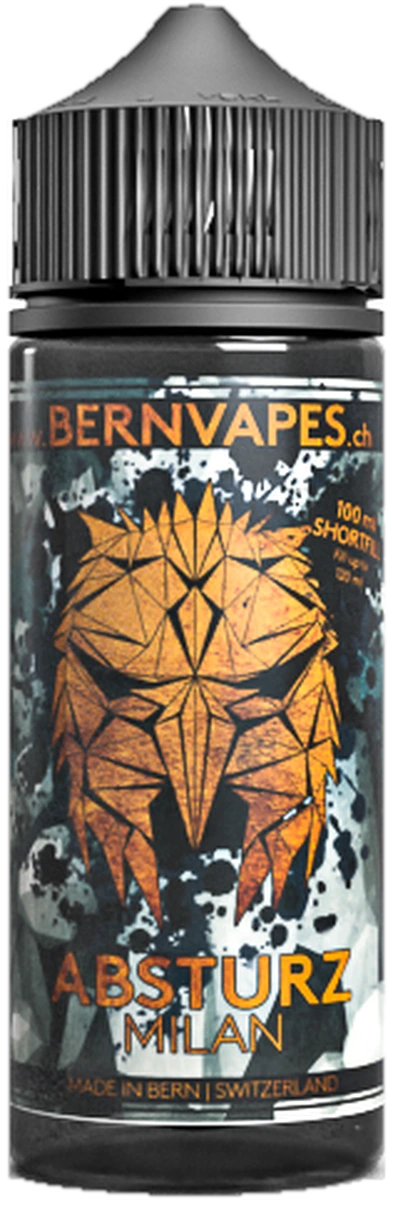
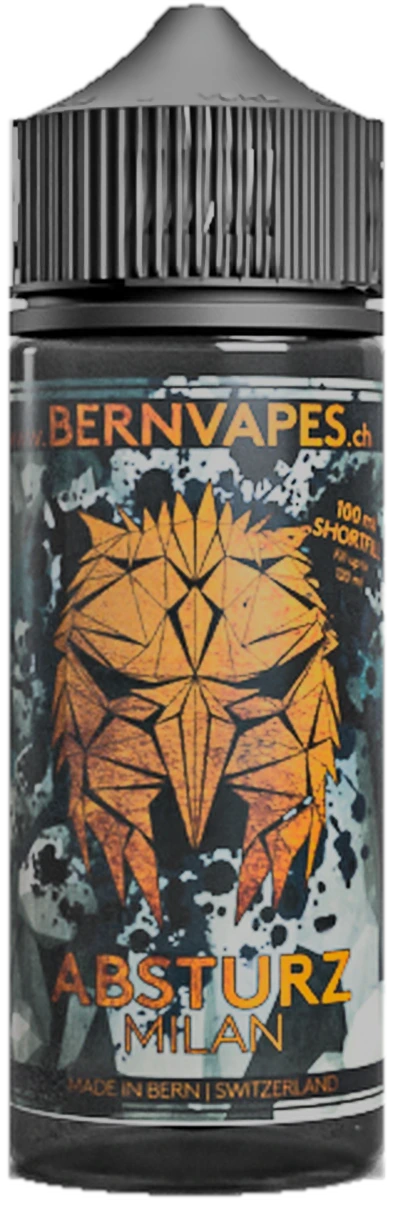
Runde 12: matte Flaschen + ruhige Kappen, Quartiere als Reihe mit Gras/Wolken/Wetterleuchten, Bergtiere Pistenplan (kleiner, Hover-Wachstum, Liftlinien), Hero-Flasche hinter dem Tier, weichere Saison-Blende

diff --git a/index.html b/index.html
@@ -73,6 +73,9 @@
     <canvas class="world" data-src="assets/web/worlds/wald.webp" data-key="wald" data-strength="1"></canvas>
     <canvas class="world winter" data-src="assets/web/worlds/wald_w.webp" data-key="wald_w" data-strength="1"></canvas>
     <canvas class="snow"></canvas>
+    <div class="qclouds" aria-hidden="true"><img src="assets/web/clouds/c0.webp" alt="" style="left:6%;top:9%;width:13%;--dur:70s;--amp:2.6vw;animation-delay:-30s"><img src="assets/web/clouds/c3.webp" alt="" style="right:8%;top:6%;width:12%;--dur:84s;--amp:3vw;animation-delay:-50s"><img src="assets/web/clouds/c2.webp" alt="" style="left:30%;top:4%;width:7%;--dur:60s;--amp:2vw;animation-delay:-12s"></div>
+    <div class="flash" aria-hidden="true"></div>
+    <canvas class="grass"></canvas>
     <div class="fx vignette"></div><div class="fx cool"></div>
     <div class="title side">
       <div class="kicker">Die Klassiker</div>
@@ -80,7 +83,7 @@
       <p>Sieben Sorten, benannt nach Berner Quartieren. Vier davon gibt es auch eisgekühlt — schalt auf Winter.</p>
     </div>
     <div class="beasts">
-      <figure class="beast grp bot" style="--i:0;left:12%;bottom:6%;--w:6.6%;--d:1.1;--delay:0s" data-season="s"><div class="duo"><div class="bottle3" style="--mask:url('assets/web/produkte/monbijou_marder_60ml.webp');--bar:0.231"><img class="base" src="assets/web/produkte/monbijou_marder_60ml.webp" alt=""><i class="shine"></i></div></div><div class="ings"><img src="assets/web/ingredients/schokolade_orange.webp" alt=""></div><div class="plaque"><div class="flavor">Monbijou Marder</div><div class="who">Zartbitter · Orange</div></div></figure><figure class="beast grp bot" style="--i:1;left:30%;bottom:6%;--w:6.6%;--d:1.1;--delay:-1.2s" data-season="s"><div class="duo"><div class="bottle3" style="--mask:url('assets/web/produkte/breitschplatz_hirsch_60ml.webp');--bar:0.231"><img class="base" src="assets/web/produkte/breitschplatz_hirsch_60ml.webp" alt=""><i class="shine"></i></div></div><div class="ings"><img src="assets/web/ingredients/apfel.webp" alt=""><img src="assets/web/ingredients/pistazie.webp" alt=""></div><div class="plaque"><div class="flavor">Breitsch Hirsch</div><div class="who">Apfel · Pistazie</div></div></figure><figure class="beast grp bot" style="--i:2;left:48%;bottom:6%;--w:6.6%;--d:1.1;--delay:-2.4s" data-season="s"><div class="duo"><div class="bottle3" style="--mask:url('assets/web/produkte/matte_eule_60ml.webp');--bar:0.231"><img class="base" src="assets/web/produkte/matte_eule_60ml.webp" alt=""><i class="shine"></i></div></div><div class="ings"><img src="assets/web/ingredients/ingwer.webp" alt=""><img src="assets/web/ingredients/mandarine.webp" alt=""></div><div class="plaque"><div class="flavor">Matte Eule</div><div class="who">Ingwer · Mandarine</div></div></figure><figure class="beast grp bot" style="--i:3;left:66%;bottom:6%;--w:6.6%;--d:1.1;--delay:-3.6s" data-season="s"><div class="duo"><div class="bottle3" style="--mask:url('assets/web/produkte/laengass_dachs_60ml.webp');--bar:0.231"><img class="base" src="assets/web/produkte/laengass_dachs_60ml.webp" alt=""><i class="shine"></i></div></div><div class="ings"><img src="assets/web/ingredients/saure_mango.webp" alt=""><img src="assets/web/ingredients/mango.webp" alt=""></div><div class="plaque"><div class="flavor">Länggass Dachs</div><div class="who">Saure Mango</div></div></figure><figure class="beast grp bot" style="--i:4;left:84%;bottom:6%;--w:6.6%;--d:1.1;--delay:-4.8s" data-season="s"><div class="duo"><div class="bottle3" style="--mask:url('assets/web/produkte/wyler_falke_60ml.webp');--bar:0.231"><img class="base" src="assets/web/produkte/wyler_falke_60ml.webp" alt=""><i class="shine"></i></div></div><div class="ings"><img src="assets/web/ingredients/jasmin.webp" alt=""><img src="assets/web/ingredients/gruentee.webp" alt=""></div><div class="plaque"><div class="flavor">Wyler Falke</div><div class="who">Jasmin-Tee</div></div></figure><figure class="beast grp bot quiet" style="--i:5;left:24%;bottom:34%;--w:4.2%;--d:.5;--delay:-6s" data-season="s"><div class="duo"><div class="bottle3" style="--mask:url('assets/web/produkte/schanzen_kater_60ml.webp');--bar:0.231"><img class="base" src="assets/web/produkte/schanzen_kater_60ml.webp" alt=""><i class="shine"></i></div></div><div class="ings"><img src="assets/web/ingredients/kaffee.webp" alt=""><img src="assets/web/ingredients/amaretto.webp" alt=""></div><div class="plaque"><div class="flavor">Schanzen Kater</div><div class="who">Kaffee · Amaretto</div></div></figure><figure class="beast grp bot quiet" style="--i:6;left:70%;bottom:35%;--w:4.2%;--d:.5;--delay:-7s" data-season="s"><div class="duo"><div class="bottle3" style="--mask:url('assets/web/produkte/bollwerk_koeter_60ml.webp');--bar:0.231"><img class="base" src="assets/web/produkte/bollwerk_koeter_60ml.webp" alt=""><i class="shine"></i></div></div><div class="ings"><img src="assets/web/ingredients/tabak.webp" alt=""><img src="assets/web/ingredients/feige.webp" alt=""></div><div class="plaque"><div class="flavor">Bollwerk Köter</div><div class="who">Tabak · Feige</div></div></figure><figure class="beast grp bot" style="--i:0;left:20%;bottom:6%;--w:7%;--d:1.1;--delay:0s" data-season="w"><div class="duo"><div class="bottle3" style="--mask:url('assets/web/produkte/breitschplatz_hirsch_otr_60ml.webp');--bar:0.231"><img class="base" src="assets/web/produkte/breitschplatz_hirsch_otr_60ml.webp" alt=""><i class="shine"></i></div></div><div class="ings"><img src="assets/web/ingredients/eis.webp" alt=""><img src="assets/web/ingredients/apfel.webp" alt=""></div><div class="plaque"><div class="flavor">Breitsch Hirsch · on the rocks</div><div class="who">Apfel · Pistazie · Koolada</div></div></figure><figure class="beast grp bot" style="--i:1;left:40%;bottom:6%;--w:7%;--d:1.1;--delay:-1.5s" data-season="w"><div class="duo"><div class="bottle3" style="--mask:url('assets/web/produkte/matte_eule_otr_60ml.webp');--bar:0.231"><img class="base" src="assets/web/produkte/matte_eule_otr_60ml.webp" alt=""><i class="shine"></i></div></div><div class="ings"><img src="assets/web/ingredients/eis.webp" alt=""><img src="assets/web/ingredients/mandarine.webp" alt=""></div><div class="plaque"><div class="flavor">Matte Eule · on the rocks</div><div class="who">Ingwer · Mandarine · Koolada</div></div></figure><figure class="beast grp bot" style="--i:2;left:60%;bottom:6%;--w:7%;--d:1.1;--delay:-3s" data-season="w"><div class="duo"><div class="bottle3" style="--mask:url('assets/web/produkte/laengass_dachs_otr_60ml.webp');--bar:0.231"><img class="base" src="assets/web/produkte/laengass_dachs_otr_60ml.webp" alt=""><i class="shine"></i></div></div><div class="ings"><img src="assets/web/ingredients/eis.webp" alt=""><img src="assets/web/ingredients/saure_mango.webp" alt=""></div><div class="plaque"><div class="flavor">Länggass Dachs · on the rocks</div><div class="who">Saure Mango · Koolada</div></div></figure><figure class="beast grp bot" style="--i:3;left:80%;bottom:6%;--w:7%;--d:1.1;--delay:-4.5s" data-season="w"><div class="duo"><div class="bottle3" style="--mask:url('assets/web/produkte/wyler_falke_otr_60ml.webp');--bar:0.231"><img class="base" src="assets/web/produkte/wyler_falke_otr_60ml.webp" alt=""><i class="shine"></i></div></div><div class="ings"><img src="assets/web/ingredients/eis.webp" alt=""><img src="assets/web/ingredients/jasmin.webp" alt=""></div><div class="plaque"><div class="flavor">Wyler Falke · on the rocks</div><div class="who">Jasmin-Tee · Koolada</div></div></figure>
+      <figure class="beast grp bot" style="--i:0;left:9%;bottom:9%;--w:5.9%;--d:.8;--delay:0s" data-season="s"><div class="duo"><div class="bottle3" style="--mask:url('assets/web/produkte/monbijou_marder_60ml.webp');--bar:0.231"><img class="base" src="assets/web/produkte/monbijou_marder_60ml.webp" alt=""><i class="shine"></i></div></div><div class="ings"><img src="assets/web/ingredients/schokolade_orange.webp" alt=""></div><div class="plaque"><div class="flavor">Monbijou Marder</div><div class="who">Zartbitter · Orange</div></div></figure><figure class="beast grp bot" style="--i:1;left:36%;bottom:10%;--w:5.9%;--d:.8;--delay:-2s" data-season="s"><div class="duo"><div class="bottle3" style="--mask:url('assets/web/produkte/breitschplatz_hirsch_60ml.webp');--bar:0.231"><img class="base" src="assets/web/produkte/breitschplatz_hirsch_60ml.webp" alt=""><i class="shine"></i></div></div><div class="ings"><img src="assets/web/ingredients/apfel.webp" alt=""><img src="assets/web/ingredients/pistazie.webp" alt=""></div><div class="plaque"><div class="flavor">Breitsch Hirsch</div><div class="who">Apfel · Pistazie</div></div></figure><figure class="beast grp bot" style="--i:2;left:50%;bottom:6%;--w:6.3%;--d:1;--delay:-3s" data-season="s"><div class="duo"><div class="bottle3" style="--mask:url('assets/web/produkte/matte_eule_60ml.webp');--bar:0.231"><img class="base" src="assets/web/produkte/matte_eule_60ml.webp" alt=""><i class="shine"></i></div></div><div class="ings"><img src="assets/web/ingredients/ingwer.webp" alt=""><img src="assets/web/ingredients/mandarine.webp" alt=""></div><div class="plaque"><div class="flavor">Matte Eule</div><div class="who">Ingwer · Mandarine</div></div></figure><figure class="beast grp bot" style="--i:3;left:64%;bottom:10%;--w:5.9%;--d:.8;--delay:-4s" data-season="s"><div class="duo"><div class="bottle3" style="--mask:url('assets/web/produkte/laengass_dachs_60ml.webp');--bar:0.231"><img class="base" src="assets/web/produkte/laengass_dachs_60ml.webp" alt=""><i class="shine"></i></div></div><div class="ings"><img src="assets/web/ingredients/saure_mango.webp" alt=""><img src="assets/web/ingredients/mango.webp" alt=""></div><div class="plaque"><div class="flavor">Länggass Dachs</div><div class="who">Saure Mango</div></div></figure><figure class="beast grp bot" style="--i:4;left:91%;bottom:9%;--w:5.9%;--d:.8;--delay:-6s" data-season="s"><div class="duo"><div class="bottle3" style="--mask:url('assets/web/produkte/wyler_falke_60ml.webp');--bar:0.231"><img class="base" src="assets/web/produkte/wyler_falke_60ml.webp" alt=""><i class="shine"></i></div></div><div class="ings"><img src="assets/web/ingredients/jasmin.webp" alt=""><img src="assets/web/ingredients/gruentee.webp" alt=""></div><div class="plaque"><div class="flavor">Wyler Falke</div><div class="who">Jasmin-Tee</div></div></figure><figure class="beast grp bot" style="--i:5;left:22.5%;bottom:6%;--w:6.3%;--d:1;--delay:-1s" data-season="s"><div class="duo"><div class="bottle3" style="--mask:url('assets/web/produkte/schanzen_kater_60ml.webp');--bar:0.231"><img class="base" src="assets/web/produkte/schanzen_kater_60ml.webp" alt=""><i class="shine"></i></div></div><div class="ings"><img src="assets/web/ingredients/kaffee.webp" alt=""><img src="assets/web/ingredients/amaretto.webp" alt=""></div><div class="plaque"><div class="flavor">Schanzen Kater</div><div class="who">Kaffee · Amaretto</div></div></figure><figure class="beast grp bot" style="--i:6;left:77.5%;bottom:6%;--w:6.3%;--d:1;--delay:-5s" data-season="s"><div class="duo"><div class="bottle3" style="--mask:url('assets/web/produkte/bollwerk_koeter_60ml.webp');--bar:0.231"><img class="base" src="assets/web/produkte/bollwerk_koeter_60ml.webp" alt=""><i class="shine"></i></div></div><div class="ings"><img src="assets/web/ingredients/tabak.webp" alt=""><img src="assets/web/ingredients/feige.webp" alt=""></div><div class="plaque"><div class="flavor">Bollwerk Köter</div><div class="who">Tabak · Feige</div></div></figure><figure class="beast grp bot" style="--i:0;left:20%;bottom:6%;--w:7%;--d:1.1;--delay:0s" data-season="w"><div class="duo"><div class="bottle3" style="--mask:url('assets/web/produkte/breitschplatz_hirsch_otr_60ml.webp');--bar:0.231"><img class="base" src="assets/web/produkte/breitschplatz_hirsch_otr_60ml.webp" alt=""><i class="shine"></i></div></div><div class="ings"><img src="assets/web/ingredients/eis.webp" alt=""><img src="assets/web/ingredients/apfel.webp" alt=""></div><div class="plaque"><div class="flavor">Breitsch Hirsch · on the rocks</div><div class="who">Apfel · Pistazie · Koolada</div></div></figure><figure class="beast grp bot" style="--i:1;left:40%;bottom:6%;--w:7%;--d:1.1;--delay:-1.5s" data-season="w"><div class="duo"><div class="bottle3" style="--mask:url('assets/web/produkte/matte_eule_otr_60ml.webp');--bar:0.231"><img class="base" src="assets/web/produkte/matte_eule_otr_60ml.webp" alt=""><i class="shine"></i></div></div><div class="ings"><img src="assets/web/ingredients/eis.webp" alt=""><img src="assets/web/ingredients/mandarine.webp" alt=""></div><div class="plaque"><div class="flavor">Matte Eule · on the rocks</div><div class="who">Ingwer · Mandarine · Koolada</div></div></figure><figure class="beast grp bot" style="--i:2;left:60%;bottom:6%;--w:7%;--d:1.1;--delay:-3s" data-season="w"><div class="duo"><div class="bottle3" style="--mask:url('assets/web/produkte/laengass_dachs_otr_60ml.webp');--bar:0.231"><img class="base" src="assets/web/produkte/laengass_dachs_otr_60ml.webp" alt=""><i class="shine"></i></div></div><div class="ings"><img src="assets/web/ingredients/eis.webp" alt=""><img src="assets/web/ingredients/saure_mango.webp" alt=""></div><div class="plaque"><div class="flavor">Länggass Dachs · on the rocks</div><div class="who">Saure Mango · Koolada</div></div></figure><figure class="beast grp bot" style="--i:3;left:80%;bottom:6%;--w:7%;--d:1.1;--delay:-4.5s" data-season="w"><div class="duo"><div class="bottle3" style="--mask:url('assets/web/produkte/wyler_falke_otr_60ml.webp');--bar:0.231"><img class="base" src="assets/web/produkte/wyler_falke_otr_60ml.webp" alt=""><i class="shine"></i></div></div><div class="ings"><img src="assets/web/ingredients/eis.webp" alt=""><img src="assets/web/ingredients/jasmin.webp" alt=""></div><div class="plaque"><div class="flavor">Wyler Falke · on the rocks</div><div class="who">Jasmin-Tee · Koolada</div></div></figure>
     </div>
     <button class="toggle" type="button" aria-pressed="false"><span>Sommer</span><i></i><b>On the rocks</b></button>
   </div>
@@ -92,6 +95,7 @@
     <canvas class="world" data-src="assets/web/worlds/berg.webp" data-key="berg" data-strength="1"></canvas>
     <canvas class="world winter" data-src="assets/web/worlds/berg_w.webp" data-key="berg_w" data-strength="1"></canvas>
     <canvas class="snow"></canvas>
+    <svg class="lifts" aria-hidden="true"></svg>
     <div class="fx vignette"></div><div class="fx cool"></div>
     <div class="mist back" aria-hidden="true">
       <i style="left:10%;top:42%;--w:48vw;--h:12vh;--o:.5;--dur:95s;--delay:-20s"></i>
@@ -104,7 +108,7 @@
       <p>Neun Sorten mit Schweizer Zutaten in der 100-ml-Flasche, verteilt über den Berg. Drei davon gibt es on the rocks — schalt auf Winter.</p>
     </div>
     <div class="beasts">
-      <figure data-key="gipfel_adler_otr_100ml" class="beast grp bot" style="--i:0;--w:5.8%;--d:0.95;--delay:0s" data-ix="37" data-iy="58" data-season="w"><div class="duo"><div class="bottle3" style="--mask:url('assets/web/produkte/gipfel_adler_otr_100ml.webp');--bar:0.325"><img class="base" src="assets/web/produkte/gipfel_adler_otr_100ml.webp" alt=""><i class="shine"></i></div></div><div class="ings"><img src="assets/web/ingredients/eis.webp" alt=""><img src="assets/web/ingredients/lemongras.webp" alt=""></div><div class="plaque"><div class="flavor">Gipfel Adler · on the rocks</div><div class="who">Zitronengras · Gingerale · Koolada</div></div></figure><figure data-key="nebel_wolf_otr_100ml" class="beast grp bot" style="--i:2;--w:5.8%;--d:0.95;--delay:-1.5s" data-ix="54" data-iy="52" data-season="w"><div class="duo"><div class="bottle3" style="--mask:url('assets/web/produkte/nebel_wolf_otr_100ml.webp');--bar:0.325"><img class="base" src="assets/web/produkte/nebel_wolf_otr_100ml.webp" alt=""><i class="shine"></i></div></div><div class="ings"><img src="assets/web/ingredients/eis.webp" alt=""><img src="assets/web/ingredients/traube_apfelmus.webp" alt=""></div><div class="plaque"><div class="flavor">Nebel Wolf · on the rocks</div><div class="who">Apfelmus · Traube · Koolada</div></div></figure><figure data-key="steinschlag_bock_otr_100ml" class="beast grp bot" style="--i:1;--w:5.8%;--d:0.95;--delay:-3s" data-ix="74" data-iy="58" data-season="w"><div class="duo"><div class="bottle3" style="--mask:url('assets/web/produkte/steinschlag_bock_otr_100ml.webp');--bar:0.325"><img class="base" src="assets/web/produkte/steinschlag_bock_otr_100ml.webp" alt=""><i class="shine"></i></div></div><div class="ings"><img src="assets/web/ingredients/eis.webp" alt=""><img src="assets/web/ingredients/aprikosentee.webp" alt=""></div><div class="plaque"><div class="flavor">Steinschlag Bock · on the rocks</div><div class="who">Aprikosentee · Citrusblüte · Koolada</div></div></figure><figure data-key="gipfel_adler_100ml" data-season="s" class="beast grp bot quiet" style="--i:6;--w:4.4%;--d:0.82;--delay:-2.4000000000000004s" data-ix="37" data-iy="41"><div class="duo"><div class="bottle3" style="--mask:url('assets/web/produkte/gipfel_adler_100ml.webp');--bar:0.325"><img class="base" src="assets/web/produkte/gipfel_adler_100ml.webp" alt=""><i class="shine"></i></div></div><div class="ings"><img src="assets/web/ingredients/gingerale.webp" alt=""><img src="assets/web/ingredients/lemongras.webp" alt=""></div><div class="plaque"><div class="flavor">Gipfel Adler</div><div class="who">Gingerale · Lemongras</div></div></figure><figure data-key="nebel_wolf_100ml" data-season="s" class="beast grp bot quiet" style="--i:8;--w:4.2%;--d:0.81;--delay:-3.2s" data-ix="50" data-iy="35"><div class="duo"><div class="bottle3" style="--mask:url('assets/web/produkte/nebel_wolf_100ml.webp');--bar:0.325"><img class="base" src="assets/web/produkte/nebel_wolf_100ml.webp" alt=""><i class="shine"></i></div></div><div class="ings"><img src="assets/web/ingredients/traube_apfelmus.webp" alt=""><img src="assets/web/ingredients/edelweiss.webp" alt=""></div><div class="plaque"><div class="flavor">Nebel Wolf</div><div class="who">Apfelmus · Traube · Edelweiss</div></div></figure><figure data-key="steinschlag_bock_100ml" data-season="s" class="beast grp bot quiet" style="--i:7;--w:4.4%;--d:0.82;--delay:-4.0s" data-ix="63" data-iy="41"><div class="duo"><div class="bottle3" style="--mask:url('assets/web/produkte/steinschlag_bock_100ml.webp');--bar:0.325"><img class="base" src="assets/web/produkte/steinschlag_bock_100ml.webp" alt=""><i class="shine"></i></div></div><div class="ings"><img src="assets/web/ingredients/aprikosentee.webp" alt=""><img src="assets/web/ingredients/citrusbluete.webp" alt=""></div><div class="plaque"><div class="flavor">Steinschlag Bock</div><div class="who">Aprikosentee · Citrusblüte</div></div></figure><figure data-key="waldwiesen_biene_100ml" data-season="s" class="beast grp bot quiet" style="--i:5;--w:5.1%;--d:0.92;--delay:-4.800000000000001s" data-ix="37" data-iy="57"><div class="duo"><div class="bottle3" style="--mask:url('assets/web/produkte/waldwiesen_biene_100ml.webp');--bar:0.325"><img class="base" src="assets/web/produkte/waldwiesen_biene_100ml.webp" alt=""><i class="shine"></i></div></div><div class="ings"><img src="assets/web/ingredients/honig_melisse.webp" alt=""><img src="assets/web/ingredients/honigglas.webp" alt=""></div><div class="plaque"><div class="flavor">Waldwiesen Biene</div><div class="who">Honigmelisse</div></div></figure><figure data-key="wildwasser_bieber_100ml" data-season="s" class="beast grp bot" style="--i:4;--w:5.1%;--d:0.95;--delay:-5.6000000000000005s" data-ix="52" data-iy="60"><div class="duo"><div class="bottle3" style="--mask:url('assets/web/produkte/wildwasser_bieber_100ml.webp');--bar:0.325"><img class="base" src="assets/web/produkte/wildwasser_bieber_100ml.webp" alt=""><i class="shine"></i></div></div><div class="ings"><img src="assets/web/ingredients/caramel.webp" alt=""></div><div class="plaque"><div class="flavor">Wildwasser Biber</div><div class="who">Caramelchöpfli</div></div></figure><figure data-key="absturz_milan_100ml" data-season="s" class="beast grp bot" style="--i:3;--w:5.1%;--d:0.96;--delay:-6.4s" data-ix="74" data-iy="56"><div class="duo"><div class="bottle3" style="--mask:url('assets/web/produkte/absturz_milan_100ml.webp');--bar:0.325"><img class="base" src="assets/web/produkte/absturz_milan_100ml.webp" alt=""><i class="shine"></i></div></div><div class="ings"><img src="assets/web/ingredients/alpenkraeuter.webp" alt=""></div><div class="plaque"><div class="flavor">Absturz Milan</div><div class="who">Alpenkräutertee</div></div></figure><figure data-key="waldbrand_salamander_100ml" data-season="s" class="beast grp bot" style="--i:1;--w:6.3%;--d:1.07;--delay:-8.0s" data-ix="39" data-iy="78"><div class="duo"><div class="bottle3" style="--mask:url('assets/web/produkte/waldbrand_salamander_100ml.webp');--bar:0.325"><img class="base" src="assets/web/produkte/waldbrand_salamander_100ml.webp" alt=""><i class="shine"></i></div></div><div class="ings"><img src="assets/web/ingredients/ananas.webp" alt=""><img src="assets/web/ingredients/hibiskus.webp" alt=""><img src="assets/web/ingredients/zitrone.webp" alt=""></div><div class="plaque"><div class="flavor">Waldbrand Salamander</div><div class="who">Ananas · Hibiskus · Zitrone</div></div></figure><figure data-key="abgrund_gemse_100ml" data-season="s" class="beast grp bot" style="--i:0;--w:6.3%;--d:1.08;--delay:-8.8s" data-ix="56" data-iy="80"><div class="duo"><div class="bottle3" style="--mask:url('assets/web/produkte/abgrund_gemse_100ml.webp');--bar:0.325"><img class="base" src="assets/web/produkte/abgrund_gemse_100ml.webp" alt=""><i class="shine"></i></div></div><div class="ings"><img src="assets/web/ingredients/himbeere.webp" alt=""><img src="assets/web/ingredients/mascarpone.webp" alt=""></div><div class="plaque"><div class="flavor">Abgrund Gemse</div><div class="who">Himbeere · Mascarpone</div></div></figure><figure data-key="erdbeben_elch_100ml" data-season="s" class="beast grp bot" style="--i:2;--w:6.3%;--d:1.06;--delay:-9.600000000000001s" data-ix="78" data-iy="76"><div class="duo"><div class="bottle3" style="--mask:url('assets/web/produkte/erdbeben_elch_100ml.webp');--bar:0.325"><img class="base" src="assets/web/produkte/erdbeben_elch_100ml.webp" alt=""><i class="shine"></i></div></div><div class="ings"><img src="assets/web/ingredients/erdbeere.webp" alt=""><img src="assets/web/ingredients/cheesecake.webp" alt=""></div><div class="plaque"><div class="flavor">Erdbeben Elch</div><div class="who">Erdbeer-Cheesecake</div></div></figure>
+      <figure data-key="gipfel_adler_otr_100ml" class="beast grp bot" style="--i:0;--w:4.4%;--d:0.95;--delay:0s" data-ix="34" data-iy="58" data-season="w"><div class="duo"><div class="bottle3" style="--mask:url('assets/web/produkte/gipfel_adler_otr_100ml.webp');--bar:0.325"><img class="base" src="assets/web/produkte/gipfel_adler_otr_100ml.webp" alt=""><i class="shine"></i></div></div><div class="ings"><img src="assets/web/ingredients/eis.webp" alt=""><img src="assets/web/ingredients/lemongras.webp" alt=""></div><div class="plaque"><div class="flavor">Gipfel Adler · on the rocks</div><div class="who">Zitronengras · Gingerale · Koolada</div></div></figure><figure data-key="nebel_wolf_otr_100ml" class="beast grp bot" style="--i:2;--w:4.2%;--d:0.95;--delay:-1.5s" data-ix="52" data-iy="50" data-season="w"><div class="duo"><div class="bottle3" style="--mask:url('assets/web/produkte/nebel_wolf_otr_100ml.webp');--bar:0.325"><img class="base" src="assets/web/produkte/nebel_wolf_otr_100ml.webp" alt=""><i class="shine"></i></div></div><div class="ings"><img src="assets/web/ingredients/eis.webp" alt=""><img src="assets/web/ingredients/traube_apfelmus.webp" alt=""></div><div class="plaque"><div class="flavor">Nebel Wolf · on the rocks</div><div class="who">Apfelmus · Traube · Koolada</div></div></figure><figure data-key="steinschlag_bock_otr_100ml" class="beast grp bot" style="--i:1;--w:4.4%;--d:0.95;--delay:-3s" data-ix="72" data-iy="58" data-season="w"><div class="duo"><div class="bottle3" style="--mask:url('assets/web/produkte/steinschlag_bock_otr_100ml.webp');--bar:0.325"><img class="base" src="assets/web/produkte/steinschlag_bock_otr_100ml.webp" alt=""><i class="shine"></i></div></div><div class="ings"><img src="assets/web/ingredients/eis.webp" alt=""><img src="assets/web/ingredients/aprikosentee.webp" alt=""></div><div class="plaque"><div class="flavor">Steinschlag Bock · on the rocks</div><div class="who">Aprikosentee · Citrusblüte · Koolada</div></div></figure><figure data-key="gipfel_adler_100ml" data-season="s" class="beast grp bot quiet" style="--i:6;--w:3.3%;--d:0.82;--delay:-2.4000000000000004s" data-ix="36" data-iy="36"><div class="duo"><div class="bottle3" style="--mask:url('assets/web/produkte/gipfel_adler_100ml.webp');--bar:0.325"><img class="base" src="assets/web/produkte/gipfel_adler_100ml.webp" alt=""><i class="shine"></i></div></div><div class="ings"><img src="assets/web/ingredients/gingerale.webp" alt=""><img src="assets/web/ingredients/lemongras.webp" alt=""></div><div class="plaque"><div class="flavor">Gipfel Adler</div><div class="who">Gingerale · Lemongras</div></div></figure><figure data-key="nebel_wolf_100ml" data-season="s" class="beast grp bot quiet" style="--i:8;--w:3.1%;--d:0.81;--delay:-3.2s" data-ix="50" data-iy="30"><div class="duo"><div class="bottle3" style="--mask:url('assets/web/produkte/nebel_wolf_100ml.webp');--bar:0.325"><img class="base" src="assets/web/produkte/nebel_wolf_100ml.webp" alt=""><i class="shine"></i></div></div><div class="ings"><img src="assets/web/ingredients/traube_apfelmus.webp" alt=""><img src="assets/web/ingredients/edelweiss.webp" alt=""></div><div class="plaque"><div class="flavor">Nebel Wolf</div><div class="who">Apfelmus · Traube · Edelweiss</div></div></figure><figure data-key="steinschlag_bock_100ml" data-season="s" class="beast grp bot quiet" style="--i:7;--w:3.3%;--d:0.82;--delay:-4.0s" data-ix="64" data-iy="36"><div class="duo"><div class="bottle3" style="--mask:url('assets/web/produkte/steinschlag_bock_100ml.webp');--bar:0.325"><img class="base" src="assets/web/produkte/steinschlag_bock_100ml.webp" alt=""><i class="shine"></i></div></div><div class="ings"><img src="assets/web/ingredients/aprikosentee.webp" alt=""><img src="assets/web/ingredients/citrusbluete.webp" alt=""></div><div class="plaque"><div class="flavor">Steinschlag Bock</div><div class="who">Aprikosentee · Citrusblüte</div></div></figure><figure data-key="waldwiesen_biene_100ml" data-season="s" class="beast grp bot quiet" style="--i:5;--w:3.9%;--d:0.92;--delay:-4.800000000000001s" data-ix="29" data-iy="55"><div class="duo"><div class="bottle3" style="--mask:url('assets/web/produkte/waldwiesen_biene_100ml.webp');--bar:0.325"><img class="base" src="assets/web/produkte/waldwiesen_biene_100ml.webp" alt=""><i class="shine"></i></div></div><div class="ings"><img src="assets/web/ingredients/honig_melisse.webp" alt=""><img src="assets/web/ingredients/honigglas.webp" alt=""></div><div class="plaque"><div class="flavor">Waldwiesen Biene</div><div class="who">Honigmelisse</div></div></figure><figure data-key="wildwasser_bieber_100ml" data-season="s" class="beast grp bot" style="--i:4;--w:3.9%;--d:0.95;--delay:-5.6000000000000005s" data-ix="50" data-iy="58"><div class="duo"><div class="bottle3" style="--mask:url('assets/web/produkte/wildwasser_bieber_100ml.webp');--bar:0.325"><img class="base" src="assets/web/produkte/wildwasser_bieber_100ml.webp" alt=""><i class="shine"></i></div></div><div class="ings"><img src="assets/web/ingredients/caramel.webp" alt=""></div><div class="plaque"><div class="flavor">Wildwasser Biber</div><div class="who">Caramelchöpfli</div></div></figure><figure data-key="absturz_milan_100ml" data-season="s" class="beast grp bot" style="--i:3;--w:3.9%;--d:0.96;--delay:-6.4s" data-ix="72" data-iy="55"><div class="duo"><div class="bottle3" style="--mask:url('assets/web/produkte/absturz_milan_100ml.webp');--bar:0.325"><img class="base" src="assets/web/produkte/absturz_milan_100ml.webp" alt=""><i class="shine"></i></div></div><div class="ings"><img src="assets/web/ingredients/alpenkraeuter.webp" alt=""></div><div class="plaque"><div class="flavor">Absturz Milan</div><div class="who">Alpenkräutertee</div></div></figure><figure data-key="waldbrand_salamander_100ml" data-season="s" class="beast grp bot" style="--i:1;--w:4.6%;--d:1.07;--delay:-8.0s" data-ix="36" data-iy="77"><div class="duo"><div class="bottle3" style="--mask:url('assets/web/produkte/waldbrand_salamander_100ml.webp');--bar:0.325"><img class="base" src="assets/web/produkte/waldbrand_salamander_100ml.webp" alt=""><i class="shine"></i></div></div><div class="ings"><img src="assets/web/ingredients/ananas.webp" alt=""><img src="assets/web/ingredients/hibiskus.webp" alt=""><img src="assets/web/ingredients/zitrone.webp" alt=""></div><div class="plaque"><div class="flavor">Waldbrand Salamander</div><div class="who">Ananas · Hibiskus · Zitrone</div></div></figure><figure data-key="abgrund_gemse_100ml" data-season="s" class="beast grp bot" style="--i:0;--w:4.6%;--d:1.08;--delay:-8.8s" data-ix="56" data-iy="80"><div class="duo"><div class="bottle3" style="--mask:url('assets/web/produkte/abgrund_gemse_100ml.webp');--bar:0.325"><img class="base" src="assets/web/produkte/abgrund_gemse_100ml.webp" alt=""><i class="shine"></i></div></div><div class="ings"><img src="assets/web/ingredients/himbeere.webp" alt=""><img src="assets/web/ingredients/mascarpone.webp" alt=""></div><div class="plaque"><div class="flavor">Abgrund Gemse</div><div class="who">Himbeere · Mascarpone</div></div></figure><figure data-key="erdbeben_elch_100ml" data-season="s" class="beast grp bot" style="--i:2;--w:4.6%;--d:1.06;--delay:-9.600000000000001s" data-ix="77" data-iy="76"><div class="duo"><div class="bottle3" style="--mask:url('assets/web/produkte/erdbeben_elch_100ml.webp');--bar:0.325"><img class="base" src="assets/web/produkte/erdbeben_elch_100ml.webp" alt=""><i class="shine"></i></div></div><div class="ings"><img src="assets/web/ingredients/erdbeere.webp" alt=""><img src="assets/web/ingredients/cheesecake.webp" alt=""></div><div class="plaque"><div class="flavor">Erdbeben Elch</div><div class="who">Erdbeer-Cheesecake</div></div></figure>
     </div>
     <ol class="legend" aria-label="Sorten">
       <div class="s"><li data-for="gipfel_adler_100ml"><b>Gipfel Adler</b><span>Gingerale · Lemongras</span></li><li data-for="nebel_wolf_100ml"><b>Nebel Wolf</b><span>Apfelmus · Traube · Edelweiss</span></li><li data-for="steinschlag_bock_100ml"><b>Steinschlag Bock</b><span>Aprikosentee · Citrusblüte</span></li><li data-for="waldwiesen_biene_100ml"><b>Waldwiesen Biene</b><span>Honigmelisse</span></li><li data-for="wildwasser_bieber_100ml"><b>Wildwasser Biber</b><span>Caramelchöpfli</span></li><li data-for="absturz_milan_100ml"><b>Absturz Milan</b><span>Alpenkräutertee</span></li><li data-for="waldbrand_salamander_100ml"><b>Waldbrand Salamander</b><span>Ananas · Hibiskus · Zitrone</span></li><li data-for="abgrund_gemse_100ml"><b>Abgrund Gemse</b><span>Himbeere · Mascarpone</span></li><li data-for="erdbeben_elch_100ml"><b>Erdbeben Elch</b><span>Erdbeer-Cheesecake</span></li></div>

diff --git a/assets/js/site.js b/assets/js/site.js
@@ -211,6 +211,37 @@
     }
   }
 
+  /* ---------- Papier-Gras im Vordergrund (wiegt im Wind und mit der Maus) ---------- */
+  class Grass{
+    constructor(c){ this.c=c; this.ctx=c.getContext('2d'); this.blades=[]; this.resize(); addEventListener('resize',()=>this.resize());
+      const cols=['#9a7a4a','#b08a52','#7d6238','#c39a5c','#6b5a3a','#a8864f'];
+      let seed=7; const rnd=()=>{ seed=(seed*9301+49297)%233280; return seed/233280; };
+      for(let t=0;t<16;t++){ const x=0.01+rnd()*0.98, n=3+Math.floor(rnd()*4), base=0.0+rnd()*0.04;   /* Büschel */
+        for(let i=0;i<n;i++) this.blades.push({x:x+(rnd()-0.5)*0.035, h:0.03+rnd()*0.05, w:0.003+rnd()*0.004, lean:(rnd()-0.5)*0.5, c:cols[Math.floor(rnd()*cols.length)], ph:rnd()*6.28, y:base*rnd()}); }
+      this.blades.sort((a,b)=>a.h-b.h); }
+    resize(){ const dpr=Math.min(devicePixelRatio||1,1.5); const r=this.c.getBoundingClientRect(); this.c.width=Math.max(2,Math.round(r.width*dpr)); this.c.height=Math.max(2,Math.round(r.height*dpr)); }
+    render(now,cool){ const W=this.c.width,H=this.c.height,ctx=this.ctx; ctx.clearRect(0,0,W,H); const t=now/1000, mx=mouse.x;
+      for(const b of this.blades){ const bx=b.x*W, by=H*(1-b.y), h=b.h*H, w=b.w*W;
+        const sway=Math.sin(t*1.1+b.ph+b.x*9)*0.18 + Math.sin(t*2.3+b.ph)*0.05 + mx*0.35;   /* Wind + Maus */
+        const tipx=bx+(b.lean+sway)*h, tipy=by-h; const mid=by-h*0.5;
+        ctx.fillStyle=cool?'#c9d6e6':b.c; ctx.globalAlpha=0.95;
+        ctx.beginPath(); ctx.moveTo(bx-w,by); ctx.quadraticCurveTo(bx-w*0.6+(tipx-bx)*0.3,mid,tipx,tipy); ctx.quadraticCurveTo(bx+w*0.6+(tipx-bx)*0.3,mid,bx+w,by); ctx.closePath(); ctx.fill();
+        ctx.fillStyle='rgba(0,0,0,.18)'; ctx.beginPath(); ctx.moveTo(bx,by); ctx.quadraticCurveTo(bx+(tipx-bx)*0.3,mid,tipx,tipy); ctx.quadraticCurveTo(bx+w*0.6+(tipx-bx)*0.3,mid,bx+w,by); ctx.closePath(); ctx.fill(); }
+      ctx.globalAlpha=1; }
+  }
+  /* seltenes Wetterleuchten über den Alpen */
+  function initFlash(sc){ const el=sc.querySelector('.flash'); if(!el) return; const go=()=>{ if(sc.getBoundingClientRect().bottom>0&&sc.getBoundingClientRect().top<innerHeight){ el.classList.remove('go'); void el.offsetWidth; el.classList.add('go'); } setTimeout(go,14000+Math.random()*26000); }; setTimeout(go,6000+Math.random()*8000); }
+  /* Pistenplan: Linien zwischen den Stationen (Flaschen) */
+  function drawLifts(sc){ const svg=sc.querySelector('svg.lifts'); if(!svg) return; const pin=sc.querySelector('.pin'); const r=pin.getBoundingClientRect(); const season=sc.classList.contains('cool')?'w':'s';
+    const pts=[...sc.querySelectorAll('.beast[data-ix]')].filter(b=>b.dataset.season===season).map(b=>{ const x=parseFloat(b.style.left)/100*r.width, y=(1-parseFloat(b.style.bottom)/100)*r.height; return {x,y}; }).filter(p=>!isNaN(p.x));
+    if(pts.length<2){ svg.innerHTML=''; return; }
+    pts.sort((a,b)=>b.y-a.y||a.x-b.x);   /* von unten nach oben; Zickzack durch Reihen */
+    const rows=[]; pts.forEach(p=>{ const row=rows.find(rw=>Math.abs(rw[0].y-p.y)<r.height*0.1); if(row) row.push(p); else rows.push([p]); });
+    const order=[]; rows.forEach((rw,i)=>{ rw.sort((a,b)=>a.x-b.x); if(i%2) rw.reverse(); order.push(...rw); });
+    svg.setAttribute('viewBox',`0 0 ${r.width} ${r.height}`);
+    svg.innerHTML=`<path d="${order.map((p,i)=>(i?'L':'M')+p.x.toFixed(1)+' '+(p.y-2).toFixed(1)).join(' ')}"/>`+order.map(p=>`<circle cx="${p.x.toFixed(1)}" cy="${(p.y-2).toFixed(1)}" r="3.5"/>`).join('');
+  }
+
   /* ---------- Beasts ---------- */
   function initBeasts(root){
     root.querySelectorAll('.beast').forEach(b=>{
@@ -253,6 +284,8 @@
     /* Winter-Welt (zweiter Canvas, blendet über) + Schnee */
     const cw=sc.querySelector('canvas.world.winter'); if(cw){ worlds[sc.id+'_w']=new World(cw,cw.dataset.src,{strength:parseFloat(cw.dataset.strength||1)}); }
     const snow=sc.querySelector('canvas.snow'); if(snow) sc._snow=new Snow(snow);
+    const gr=sc.querySelector('canvas.grass'); if(gr) sc._grass=new Grass(gr);
+    initFlash(sc);
     /* Sortenliste: Hover/Klick hebt die Flasche am Berg hervor, die anderen treten zurück */
     const lg=sc.querySelector('.legend');
     if(lg){ const all=()=>[...sc.querySelectorAll('.beast[data-key]')];
@@ -339,7 +372,7 @@
     if(hero) hero._update(now);
     if(fox) fox.tick();
     World.all.forEach(w=>w.render(now));
-    document.querySelectorAll('.scene:not(#hero)').forEach(sc=>{ const p=sceneProgress(sc); const bs=sc.querySelector('.beasts'); if(bs) bs.classList.toggle('in',p>0.08||mobile()); const w=worlds[sc.id]; if(w){ w.zoom=1.0+p*0.08; } const ww=worlds[sc.id+'_w']; if(ww){ ww.zoom=1.0+p*0.08; } if(sc._snow) sc._snow.render(now,p>0&&p<1||sc.getBoundingClientRect().bottom>0); if(!mobile()) placeOnImage(sc); });
+    document.querySelectorAll('.scene:not(#hero)').forEach(sc=>{ const p=sceneProgress(sc); const bs=sc.querySelector('.beasts'); if(bs) bs.classList.toggle('in',p>0.08||mobile()); const w=worlds[sc.id]; if(w){ w.zoom=1.0+p*0.08; } const ww=worlds[sc.id+'_w']; if(ww){ ww.zoom=1.0+p*0.08; } const vis=sc.getBoundingClientRect().bottom>0&&sc.getBoundingClientRect().top<innerHeight; if(sc._snow) sc._snow.render(now,vis); if(sc._grass&&vis&&!mobile()) sc._grass.render(now,sc.classList.contains('cool')); if(!mobile()){ placeOnImage(sc); if(sc.querySelector('svg.lifts')&&(window.BV_TICKS%20===0)) drawLifts(sc); } });
     parallaxFns.forEach(f=>f());
     if(hero&&!mobile()){ hero.querySelectorAll('.clouds img').forEach(c=>{ const d=parseFloat(c.style.getPropertyValue('--d')||1); c.style.transform=`translate(${-mouse.x*14*d}px,${-mouse.y*6*d}px)`; }); }   /* Wolken: ferne Ebene, bewegt sich wenig */
     requestAnimationFrame(frame);

diff --git a/assets/css/site.css b/assets/css/site.css
@@ -323,3 +323,34 @@ footer .legal{margin-top:40px;padding-top:20px;border-top:1px solid rgba(198,161
 /* gestaffeltes Einblenden beim Umschalten (Reihenfolge per --i) */
 .scene .beasts .beast[data-season]{transition-delay:calc(var(--i,0) * 130ms)}
 .legend li.hot{border-left-color:var(--bv-gold);background:rgba(23,19,15,.35)}
+
+/* ---------- Runde 12 ---------- */
+/* Hero: Flasche näher ans Tier und dahinter → klare Zuordnung */
+.beast.grp:not(.bot) .duo{gap:0}
+.beast.grp:not(.bot) .duo .art{flex:0 0 72%;width:72%;z-index:2}
+.beast.grp:not(.bot) .bottle3{flex:0 0 20%;margin-left:-9%;margin-bottom:12%;z-index:1}
+.beast.grp:not(.bot):hover .bottle3{transform:translateY(-10px) translateX(4%)}
+/* Umschalten: Sommer-Flaschen zuerst weg (schnell), Welt blendet, Winter-Flaschen kommen nacheinander von unten */
+.scene .beasts .beast[data-season]{transition:opacity .5s var(--ease),transform .8s var(--ease),filter .5s}
+.scene.cool .beasts .beast[data-season="s"]{transition-delay:0ms!important;transform:translateX(-50%) translateY(14px) scale(.96)!important}
+.scene .beasts .beast[data-season="w"]{transform:translateX(-50%) translateY(26px) scale(.94)!important}
+.scene.cool .beasts .beast[data-season="w"]{transform:translateX(-50%) translateY(0) scale(1)!important;transition-delay:calc(700ms + var(--i,0) * 140ms)}
+.scene:not(.cool) .beasts .beast[data-season="s"]{transition-delay:calc(500ms + var(--i,0) * 120ms)}
+/* Quartiere: Kartonwolken + seltener Wetterleuchten-Blitz über den Alpen + Gras */
+.qclouds{position:absolute;inset:0;z-index:1;pointer-events:none;overflow:hidden}
+.qclouds img{position:absolute;filter:sepia(.55) saturate(.7) brightness(.92) drop-shadow(0 8px 10px rgba(40,25,10,.3));animation:cloudDrift var(--dur,70s) ease-in-out infinite alternate}
+.scene.cool .qclouds img{filter:saturate(.3) brightness(1.08) hue-rotate(-10deg) drop-shadow(0 8px 10px rgba(20,30,60,.3))}
+.flash{position:absolute;left:30%;right:30%;top:0;height:46%;z-index:1;pointer-events:none;opacity:0;background:radial-gradient(ellipse at 50% 70%,rgba(255,240,210,.55),rgba(255,220,170,.18) 40%,transparent 70%);mix-blend-mode:screen}
+.flash.go{animation:flash 1.1s linear 1}
+@keyframes flash{0%{opacity:0}6%{opacity:.9}10%{opacity:.15}16%{opacity:.7}22%{opacity:0}40%{opacity:.35}50%{opacity:0}100%{opacity:0}}
+canvas.grass{position:absolute;inset:0;width:100%;height:100%;z-index:2;pointer-events:none}
+/* Bergtiere: Pistenplan — Linien zwischen den Stationen, kleine Flaschen wachsen beim Hover */
+svg.lifts{position:absolute;inset:0;width:100%;height:100%;z-index:2;pointer-events:none}
+svg.lifts path{fill:none;stroke:var(--bv-gold);stroke-width:1.2;stroke-dasharray:3 7;opacity:.55}
+svg.lifts circle{fill:rgba(23,19,15,.6);stroke:var(--bv-gold);stroke-width:1.2}
+#bergtiere .beast{transform-origin:50% 100%}
+#bergtiere .beast .duo{transition:transform .5s var(--ease);transform-origin:50% 100%}
+#bergtiere .beast:hover .duo,#bergtiere .beast.hi .duo{transform:scale(1.32)}
+#bergtiere .beast .ings{transform-origin:50% 100%}
+#bergtiere .beast:hover .ings,#bergtiere .beast.hi .ings{transform:translateY(-30%) scale(1.5)}
+#bergtiere .beast .plaque{bottom:calc(100% + 34%)}

diff --git a/assets/produkte_src/_matte.py b/assets/produkte_src/_matte.py
@@ -1,0 +1,18 @@
+# Matt-Stich: Glanzlichter weich komprimieren (Kappe + Label), Kappe leicht glätten. Eingabe/Ausgabe: web/produkte/*.webp
+import numpy as np, glob, sys
+from PIL import Image, ImageFilter
+import cv2
+for p in sorted(glob.glob('web/produkte/*.webp')):
+    im=Image.open(p).convert('RGBA'); a=np.array(im).astype(float); H,W,_=a.shape
+    rgb=a[:,:,:3]; al=a[:,:,3]
+    lum=rgb@np.array([.299,.587,.114])
+    # weiche Lichterkompression: ab 150 flacher, Maximum ~215
+    knee=150.0; comp=np.where(lum>knee, knee+(lum-knee)*0.42, lum)
+    gain=np.where(lum>1,comp/np.maximum(lum,1),1.0)[:,:,None]
+    out=rgb*gain
+    # Kappe (obere 22 %): zusätzlich leicht glätten, damit die Rillen-Highlights nicht blockig sind
+    capH=int(H*0.22); cap=out[:capH].astype(np.uint8); cap=cv2.bilateralFilter(cap,7,40,5); out[:capH]=cap
+    # leichte Entsättigung der Lichter (Plastikglanz), Papier-Look
+    o=np.dstack([np.clip(out,0,255),al]).astype(np.uint8)
+    Image.fromarray(o,'RGBA').save(p,quality=92,method=4)
+print('ok')
